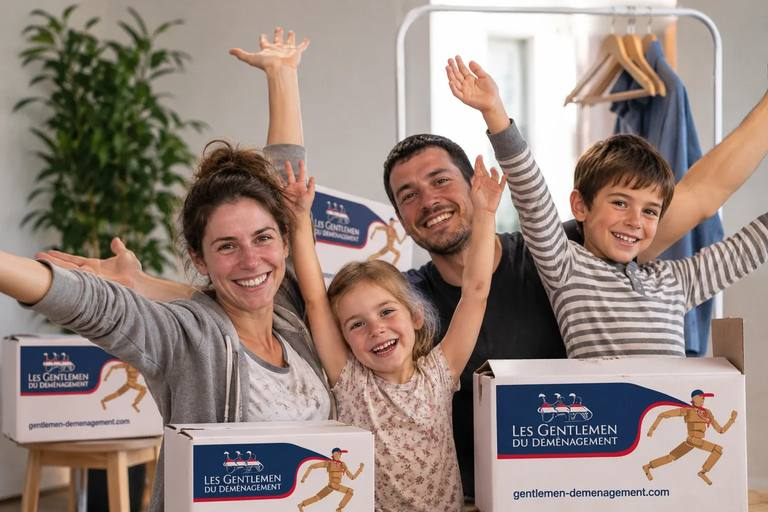
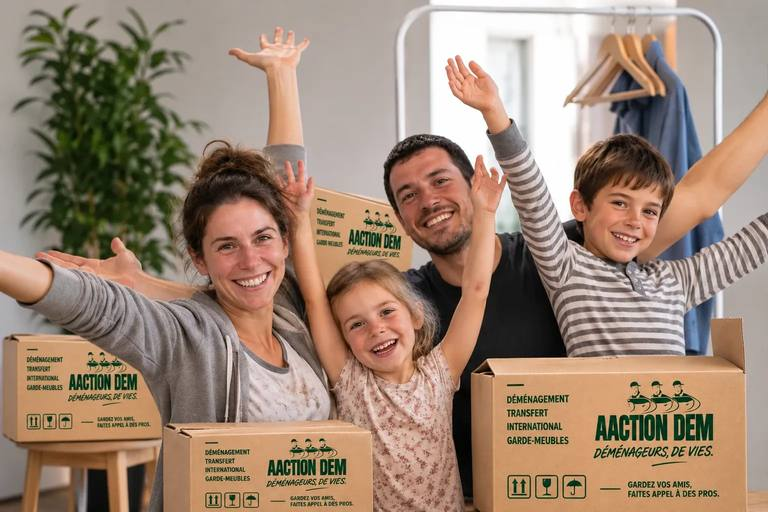
Particulier : photo d'en-tête de la famille avec cartons Aaction Dem

diff --git a/scripts/import-site-photos.py b/scripts/import-site-photos.py
@@ -33,7 +33,7 @@ PHOTOS = {
     'protection-mobilier':       ('cd448d_7d59b80511524dec85d8de70d7ea7d5f~mv2.jpg', 3/2, .5, 1000),
     'equipe-gentlemen':          ('equipe-gentlemen-2026.webp', 3/2, .5, 1536),  # version t-shirts rouges (2026-11)
     # Hero Particulier : photo fournie (famille heureuse avec cartons Les Gentlemen)
-    'famille-demenagement':      ('particulier-hero.webp', None, .5, 1536),
+    'famille-demenagement':      ('particulier-hero-2026.webp', None, .5, 1536),  # famille avec cartons Aaction Dem (2026-11)
     'demenagement-metz':         ('cd448d_d325539bdac245539ea39928a3faf0fe~mv2.jpg', 3/2, .5, 1536),
     # Hero Thionville : photo fournie (déménageur portant des cartons Aaction Dem dans une rue commerçante)
     'demenagement-thionville':   ('thionville-hero-2026.webp', None, .5, 1536),  # version t-shirt rouge (2026-11)
